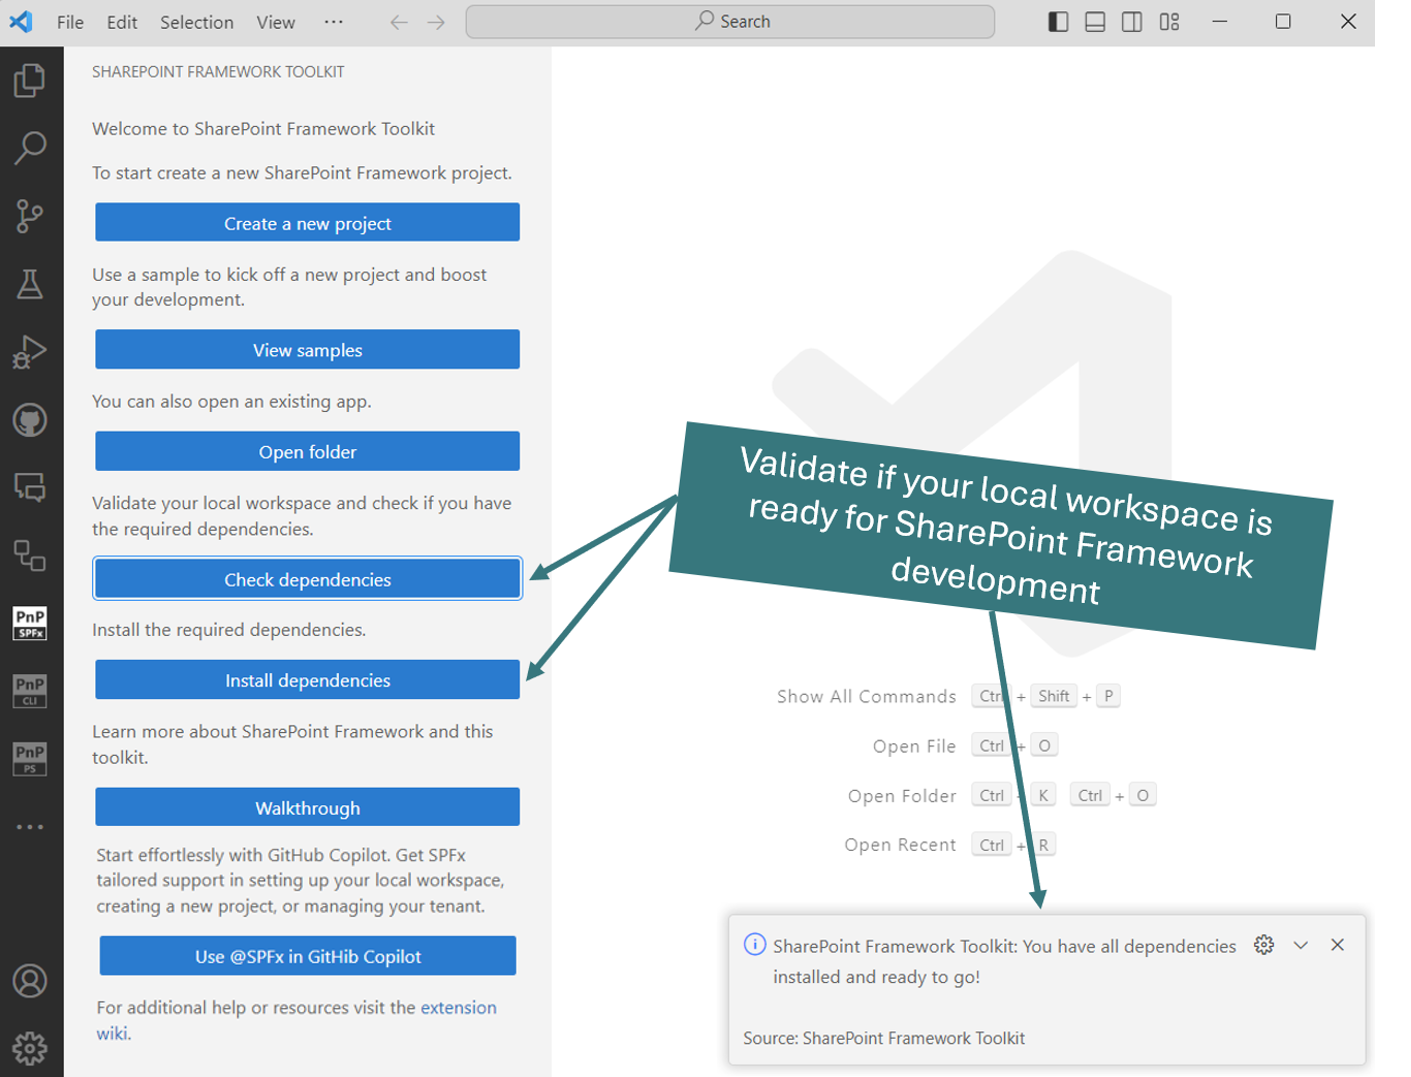
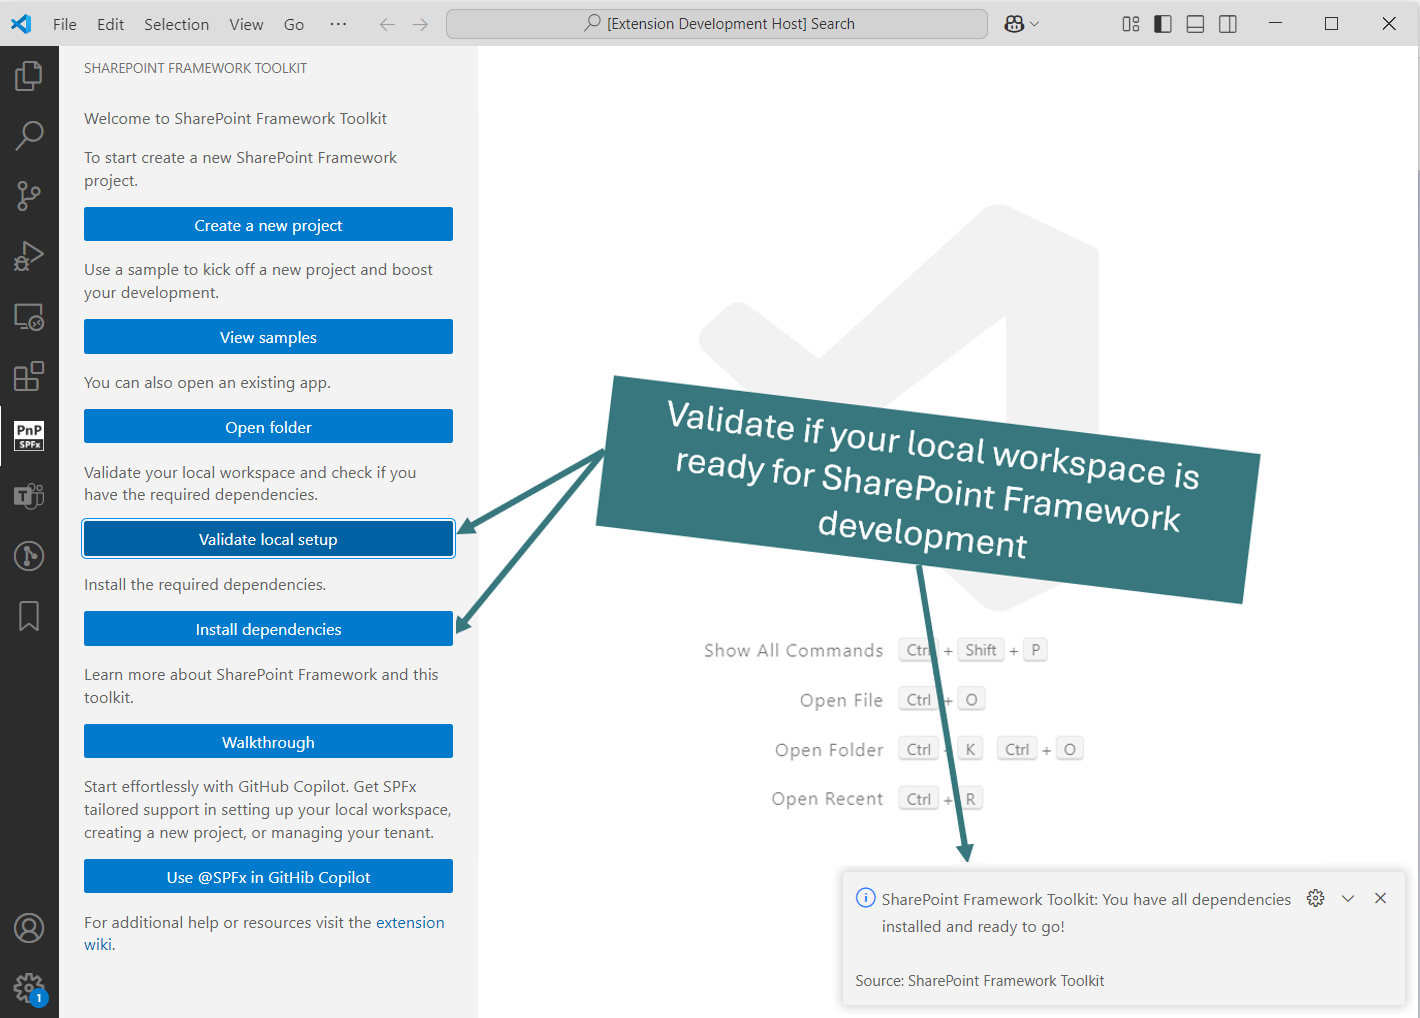
support for installing correct version of Node.js. Closes #437 (#438)
## 🎯 Aim

Support installing correct version of Node.js

## 📷 Result

![image](https://github.com/user-attachments/assets/80f2be0e-e760-4a3d-a557-dfb28b7d7e5f)

## ✅ What was done

- [X] provides a link to download and install Node.js
- [X] provides common guidance to use NVM (based on users' current OS)
or NVS

## 🔗 Related issue

Closes: #437

diff --git a/src/services/actions/Dependencies.ts b/src/services/actions/Dependencies.ts
@@ -1,7 +1,8 @@
 import { Commands } from '../../constants/Commands';
 import { Notifications } from '../dataType/Notifications';
 import { execSync } from 'child_process';
-import { commands, ProgressLocation, window } from 'vscode';
+import { commands, ProgressLocation, window, Uri } from 'vscode';
+import * as os from 'os';
 import { Logger } from '../dataType/Logger';
 import { NpmLs, Subscription } from '../../models';
 import { TerminalCommandExecuter } from '../executeWrappers/TerminalCommandExecuter';
@@ -33,28 +34,49 @@ export class Dependencies {
     await window.withProgress({
       location: ProgressLocation.Notification,
       cancellable: false,
-      title: 'Checking dependencies',
+      title: 'Validating local setup',
     }, async (progress) => {
       return new Promise((resolve) => {
         setTimeout(() => {
           try {
-            progress.report({ message: 'Checking node version...' });
+            progress.report({ message: 'Validating node version...' });
 
             // Validate node
             const isNodeValid = Dependencies.isValidNodeJs();
             if (!isNodeValid) {
-              Notifications.warning('Your Node.js version is not supported with SPFx development. Make sure you are using version: >=22.14.0 and <23.0.0');
+              const installNodeJSOption = 'Install Node.js';
+              const useNvmOption = os.platform() === 'win32' ? 'Use NVM for Windows' : 'Use NVM';
+              const useNvsOption = 'Use NVS';
+
+              Notifications.warning(
+                'Your Node.js version is not supported with SPFx development. Make sure you are using version: >=22.14.0 and <23.0.0',
+                installNodeJSOption,
+                useNvmOption,
+                useNvsOption
+              ).then((selectedOption) => {
+                if (selectedOption === installNodeJSOption) {
+                  commands.executeCommand('vscode.open', Uri.parse('https://nodejs.org/en/download/'));
+                } else if (selectedOption === useNvmOption) {
+                  const nvmInstallUrl = os.platform() === 'win32'
+                    ? 'https://github.com/coreybutler/nvm-windows?tab=readme-ov-file#overview'
+                    : 'https://github.com/nvm-sh/nvm?tab=readme-ov-file#intro';
+                  commands.executeCommand('vscode.open', Uri.parse(nvmInstallUrl));
+                } else if (selectedOption === useNvsOption) {
+                  const nvsInstallUrl = 'https://github.com/jasongin/nvs?tab=readme-ov-file#nvs-node-version-switcher';
+                  commands.executeCommand('vscode.open', Uri.parse(nvsInstallUrl));
+                }
+              });
               resolve(null);
               return;
             }
 
-            progress.report({ message: 'Checking npm dependencies...' });
+            progress.report({ message: 'Validating npm dependencies...' });
 
             const command = 'npm list -g --json --silent';
             const result = execSync(command, { shell: TerminalCommandExecuter.shell, timeout: 15000 });
 
             if (!result) {
-              Notifications.error('Failed checking dependencies');
+              Notifications.error('Failed validating local setup');
             }
 
             // Check for missing dependencies
@@ -82,7 +104,7 @@ export class Dependencies {
             }
             resolve(null);
           } catch (e) {
-            Notifications.error('Failed checking dependencies');
+            Notifications.error('Failed validating local setup');
             Logger.error(`${(e as Error).message}`);
             resolve(null);
           }

diff --git a/src/constants/Prompts.ts b/src/constants/Prompts.ts
@@ -113,7 +113,7 @@ SharePoint Framework development requires the following:
 - Yeoman SharePoint generator - The Yeoman SharePoint web part generator helps you quickly create a SharePoint client-side solution project with the right toolchain and project structure. To install the SharePoint Framework Yeoman generator globally, enter the following command: npm install @microsoft/generator-sharepoint --global
 - You should be using a modern web browser like Microsoft Edge, Google Chrome, or Firefox as the development browser.
 You will suggest running this single command to install all three of the following: npm install gulp-cli yo @microsoft/generator-sharepoint --global
-You will suggest using SPFx Toolkit 'Check dependencies' action which allows to validate if your local workspace meets the needed requirements in order to develop an SPFx project.
+You will suggest using SPFx Toolkit 'Validate local setup' action which allows to validate if your local workspace meets the needed requirements in order to develop an SPFx project.
 When asked about creating new project you will suggest running the /new command instead of the /setup command in GitHub Copilot Chat with @spfx or using SPFx Toolkit Create new project form or Sample Gallery.`;
 
 // TODO: this is beta. We should add more correct context from current project and better grounding

diff --git a/src/chat/PromptHandlers.ts b/src/chat/PromptHandlers.ts
@@ -183,7 +183,7 @@ export class PromptHandlers {
         }
         return buttons;
       case 'setup':
-        if (chatResponse.toLowerCase().includes('check dependencies')) {
+        if (chatResponse.toLowerCase().includes('validate local setup')) {
           return [{
             command: Commands.checkDependencies,
             title: vscode.l10n.t('Check if my local workspace is ready'),

diff --git a/README.md b/README.md
@@ -58,7 +58,7 @@ When running the extension for the first time it will present you a walkthrough 
 
 ### 2⃣ Set up your development environment
 
-To ensure that you can develop SPFx solutions, you may use the **check dependencies** functionality. 
+To ensure that you can develop SPFx solutions, you may use the **Validate local setup** functionality. 
 
 ![Validate dependency](./assets/images/validate-dependency.png)
 
